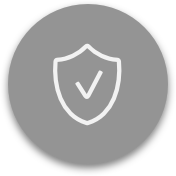
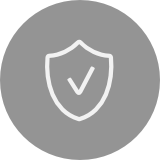
move shdows to css

diff --git a/src/main/webapp/compass-hidden/home.scss b/src/main/webapp/compass-hidden/home.scss
@@ -97,6 +97,11 @@ nav {
   @include row(table);
   margin-top: rem(60px);
 
+  img {
+    box-shadow: 0 2px 4px rgba(0, 0, 0, .5);
+    border-radius: 40px;
+  }
+
   &:first-child {
     margin-top: 0;
   }
